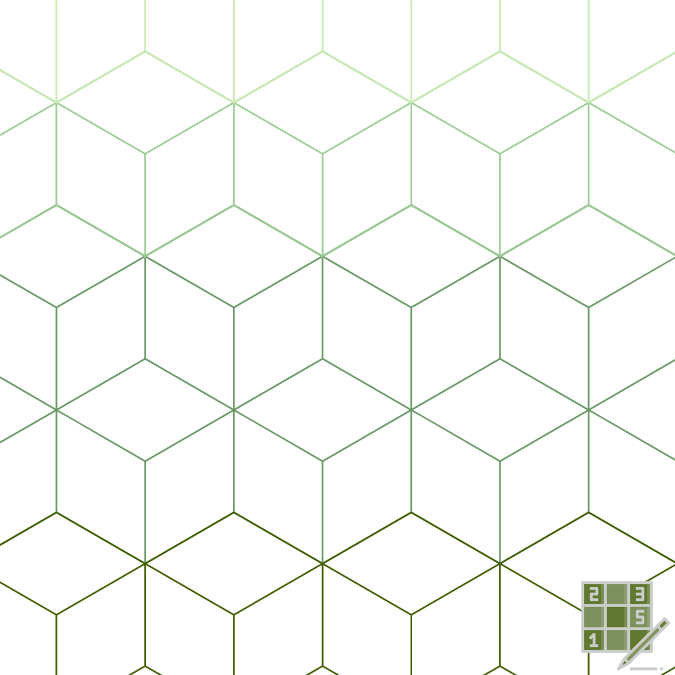
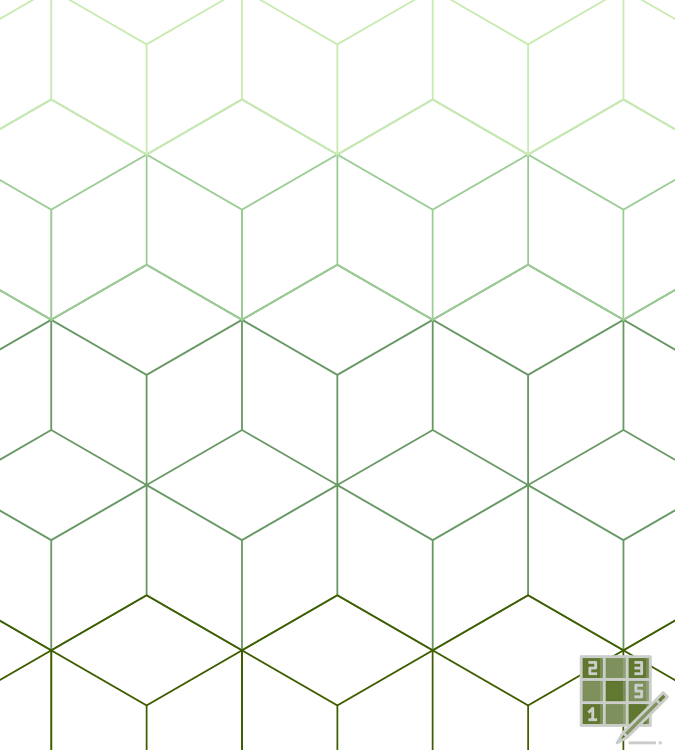
created in game buttons; can now click difficulty to enter game; difficulty is not yet fully functional.

diff --git a/sudoku.py b/sudoku.py
@@ -6,7 +6,6 @@ from cell import Cell
 # Ones in place hold that spot for testing before we decide
 
 
-
 # prints the initial menu where user selects difficulty level
 def start_menu():
     pygame.display.set_caption('Sudoku')
@@ -23,7 +22,7 @@ def start_menu():
 
 
 # prints rectangles behind buttons to create border
-def button_outlines(color):
+def start_button_outlines(color):
     pygame.draw.rect(screen, color, [337.5 - 75, 415, 150, 50])
     pygame.draw.rect(screen, color, [337.5 - 75, 495, 150, 50])
     pygame.draw.rect(screen, color, [337.5 - 75, 575, 150, 50])
@@ -39,6 +38,15 @@ def easy_button(color):
 
 
 # draws medium button
+def med_button(color):
+    smaller_font = pygame.font.Font('Rajdhani-Bold.ttf', 30)
+    button_med = smaller_font.render('Medium', True, BG_COLOR)
+    pygame.draw.rect(screen, color, [337.5 - 70, 500, 140, 40])
+    screen.blit(button_med, (337.5 - 50, 500))
+    pygame.display.update()
+
+
+# draws hard button
 def hard_button(color):
     smaller_font = pygame.font.Font('Rajdhani-Bold.ttf', 30)
     button_hard = smaller_font.render('Hard', True, BG_COLOR)
@@ -47,13 +55,38 @@ def hard_button(color):
     pygame.display.update()
 
 
-# draws hard button
-def med_button(color):
+# draws reset button
+def reset_button(color):
     smaller_font = pygame.font.Font('Rajdhani-Bold.ttf', 30)
-    button_med = smaller_font.render('Medium', True, BG_COLOR)
-    pygame.draw.rect(screen, color, [337.5 - 70, 500, 140, 40])
-    screen.blit(button_med, (337.5 - 50, 500))
+    button_reset = smaller_font.render('Reset', True, BG_COLOR)
+    pygame.draw.rect(screen, color, [168.75 - 70, 700, 140, 40])
+    screen.blit(button_reset, (168.75 - 35, 700))
     pygame.display.update()
+
+
+# draws restart button
+def restart_button(color):
+    smaller_font = pygame.font.Font('Rajdhani-Bold.ttf', 30)
+    button_restart = smaller_font.render('Restart', True, BG_COLOR)
+    pygame.draw.rect(screen, color, [337.5 - 70, 700, 140, 40])
+    screen.blit(button_restart, (337.5 - 45, 700))
+    pygame.display.update()
+
+
+# draws exit button
+def exit_button(color):
+    smaller_font = pygame.font.Font('Rajdhani-Bold.ttf', 30)
+    button_exit = smaller_font.render('Exit', True, BG_COLOR)
+    pygame.draw.rect(screen, color, [506.25 - 70, 700, 140, 40])
+    screen.blit(button_exit, (506.25 - 25, 700))
+    pygame.display.update()
+
+
+# draws rectangle behind in game buttons for border
+def game_button_outlines(color):
+    pygame.draw.rect(screen, color, [168.75 - 75, 695, 150, 50])
+    pygame.draw.rect(screen, color, [337.5 - 75, 695, 150, 50])
+    pygame.draw.rect(screen, color, [506.25 - 75, 695, 150, 50])
 
 
 # initializes the menu screen and draws difficulty buttons
@@ -65,13 +98,13 @@ background_im = pygame.image.load("sudokuim.png")
 game1 = Board(WIDTH, HEIGHT, screen, 'n/a')
 screen.blit(background_im, (0, 0))
 start_menu()
-button_outlines((64, 94, 0))
+start_button_outlines((64, 94, 0))
 easy_button((51, 50, 50))
 med_button((51, 50, 50))
 hard_button((51, 50, 50))
-"game1.draw(screen)"
+game_on = False
 
-while True:
+while not game_on:
     # loop looks at all events within game
     for event in pygame.event.get():
         if event.type == pygame.QUIT:
@@ -82,14 +115,11 @@ while True:
         mouse_pos = pygame.mouse.get_pos()
         if event.type == pygame.MOUSEBUTTONDOWN:
             if 267.5 <= mouse_pos[0] <= 337.5 + 70 and 420 <= mouse_pos[1] <= 420 + 40:
-                pygame.quit()
-                sys.exit()
+                game_on = True
             if 267.5 <= mouse_pos[0] <= 337.5 + 70 and 500 <= mouse_pos[1] <= 500 + 40:
-                pygame.quit()
-                sys.exit()
+                game_on = True
             if 267.5 <= mouse_pos[0] <= 337.5 + 70 and 580 <= mouse_pos[1] <= 580 + 40:
-                pygame.quit()
-                sys.exit()
+                game_on = True
         # changes the color of the button if it is being hovered over
         if 267.5 <= mouse_pos[0] <= 337.5 + 70 and 420 <= mouse_pos[1] <= 420 + 40:
             easy_button((130, 127, 127))
@@ -102,4 +132,41 @@ while True:
             easy_button((51, 50, 50))
             med_button((51, 50, 50))
             hard_button((51, 50, 50))
+    pygame.display.update()
+
+screen.fill(BG_COLOR)
+game1.draw(screen)
+game_button_outlines((64, 94, 0))
+exit_button((51, 50, 50))
+restart_button((51, 50, 50))
+reset_button((51, 50, 50))
+game_start = True
+while game_start:
+    for event in pygame.event.get():
+        if event.type == pygame.QUIT:
+            pygame.quit()
+            sys.exit()
+        mouse_pos = pygame.mouse.get_pos()
+        if event.type == pygame.MOUSEBUTTONDOWN:
+            if 98.75 <= mouse_pos[0] <= 168.75 + 70 and 700 <= mouse_pos[1] <= 700 + 40:
+                pygame.quit()
+                sys.exit()
+            if 267.5 <= mouse_pos[0] <= 337.5 + 70 and 700 <= mouse_pos[1] <= 700 + 40:
+                pygame.quit()
+                sys.exit()
+            if 436.25 <= mouse_pos[0] <= 506.25 + 70 and 700 <= mouse_pos[1] <= 700 + 40:
+                pygame.quit()
+                sys.exit()
+        # changes the color of the button if it is being hovered over
+        if 98.75 <= mouse_pos[0] <= 168.75 + 70 and 700 <= mouse_pos[1] <= 700 + 40:
+            reset_button((130, 127, 127))
+        elif 267.5 <= mouse_pos[0] <= 337.5 + 70 and 700 <= mouse_pos[1] <= 700 + 40:
+            restart_button((130, 127, 127))
+        elif 436.25 <= mouse_pos[0] <= 506.25 + 70 and 700 <= mouse_pos[1] <= 700 + 40:
+            exit_button((130, 127, 127))
+        # if button isn't being hovered over, it returns back to original color
+        else:
+            reset_button((51, 50, 50))
+            restart_button((51, 50, 50))
+            exit_button((51, 50, 50))
     pygame.display.update()

diff --git a/board.py b/board.py
@@ -13,7 +13,7 @@ class Board:
     # draws entire board
     def draw(self, screen):
         # draws thick horizontal lines for 9x9 board
-        for i in range(1, BOARD_ROWS):
+        for i in range(1, BOARD_ROWS+1):
             pygame.draw.line(
                 screen,
                 LINE_COLOR,
@@ -38,7 +38,7 @@ class Board:
                 screen,
                 LINE_COLOR,
                 (i * SQUARE_SIZE, 0),
-                (i * SQUARE_SIZE, HEIGHT),
+                (i * SQUARE_SIZE, 675),
                 LINE_WIDTH
             )
 
@@ -48,7 +48,7 @@ class Board:
                 screen,
                 LINE_COLOR,
                 (i * IN_SQUARE_SIZE, 0),
-                (i * IN_SQUARE_SIZE, HEIGHT),
+                (i * IN_SQUARE_SIZE, 675),
                 IN_LINE_WIDTH
             )
 

diff --git a/constants.py b/constants.py
@@ -1,5 +1,5 @@
 WIDTH = 675
-HEIGHT = 675
+HEIGHT = 750
 LINE_WIDTH = 8
 IN_LINE_WIDTH = 4
 WIN_LINE_WIDTH = 15
